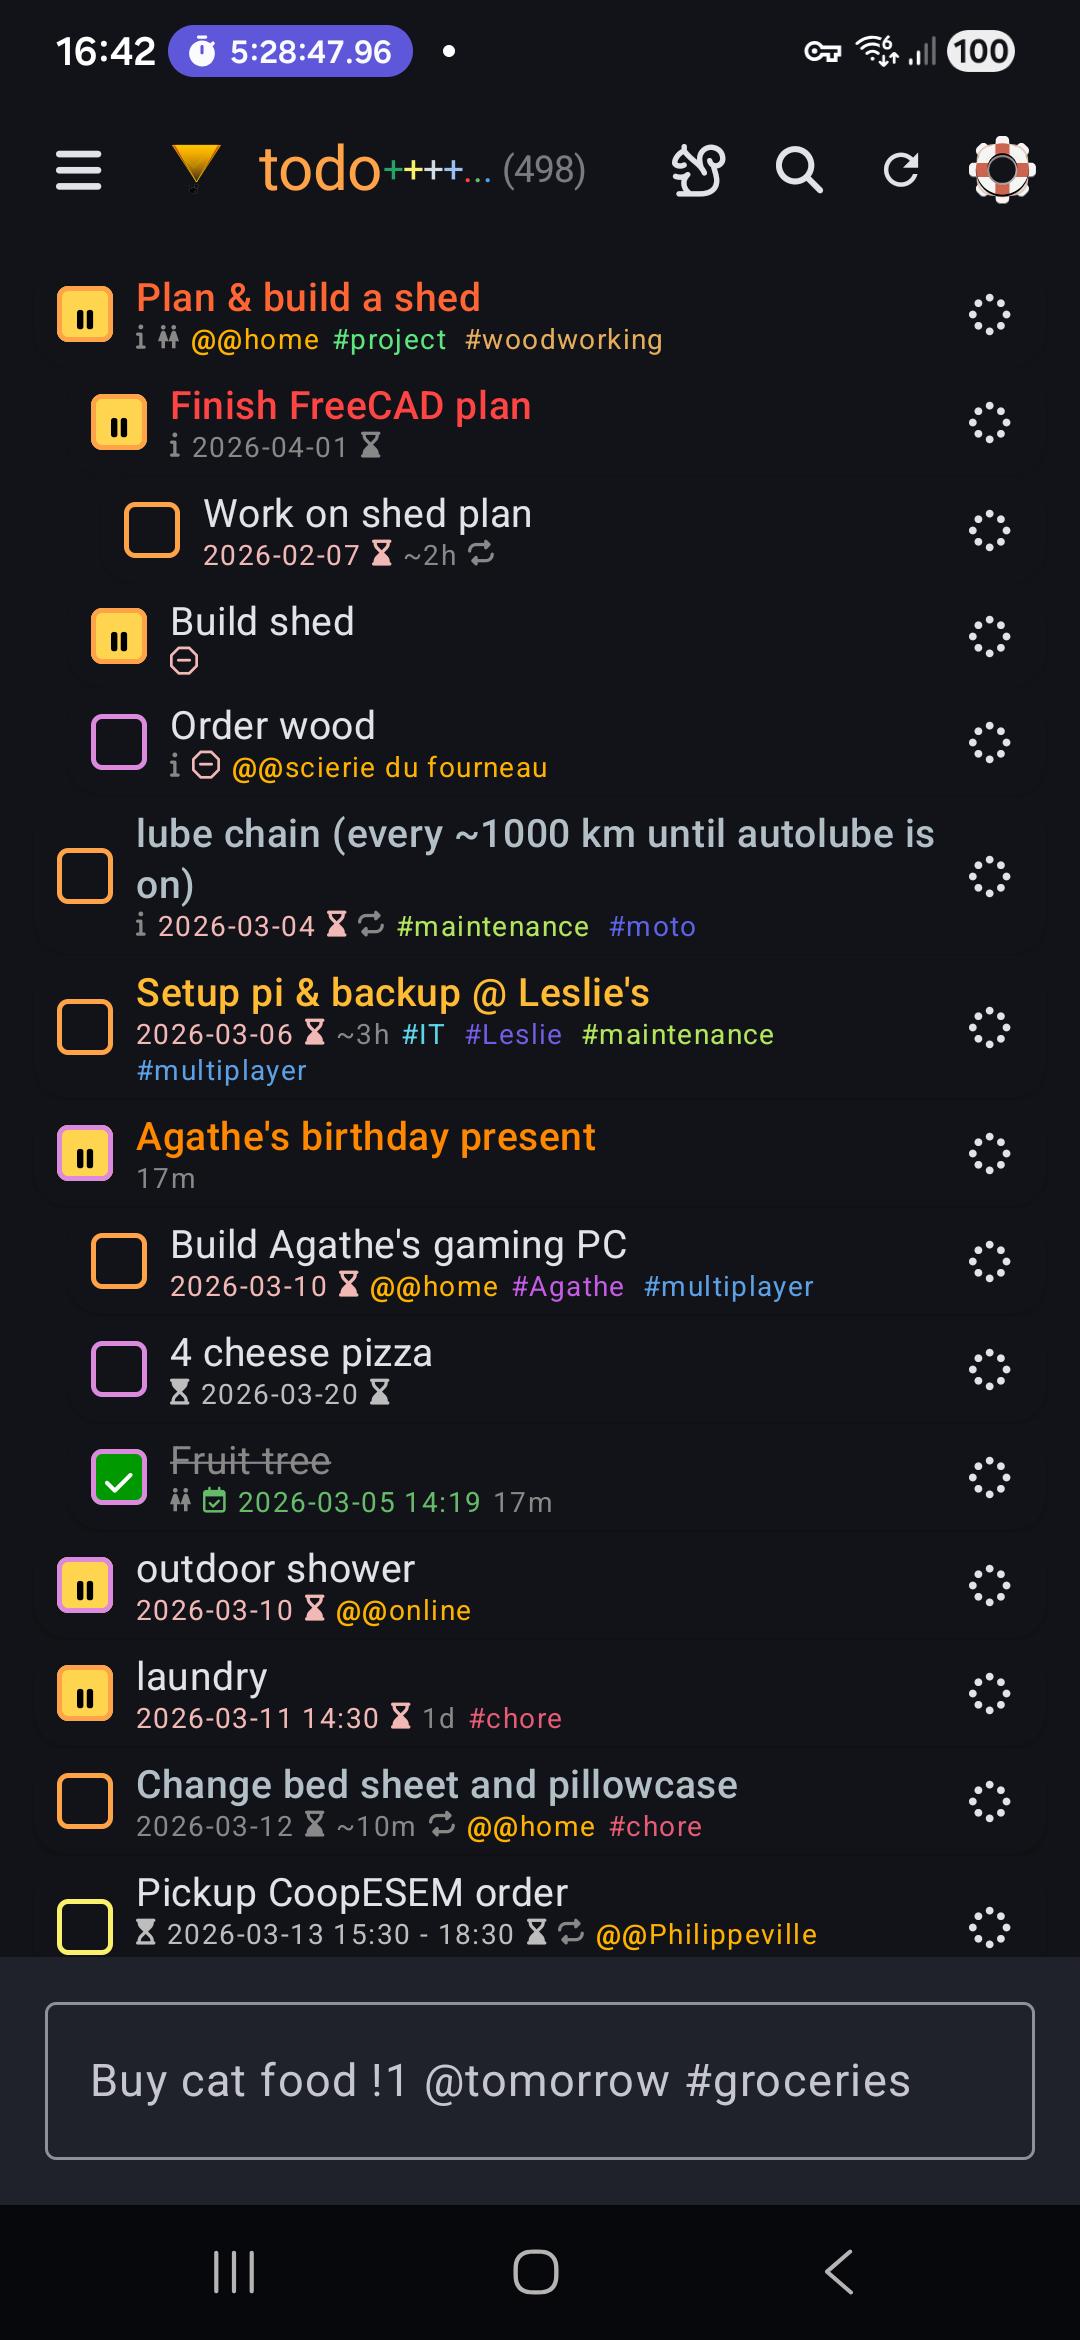
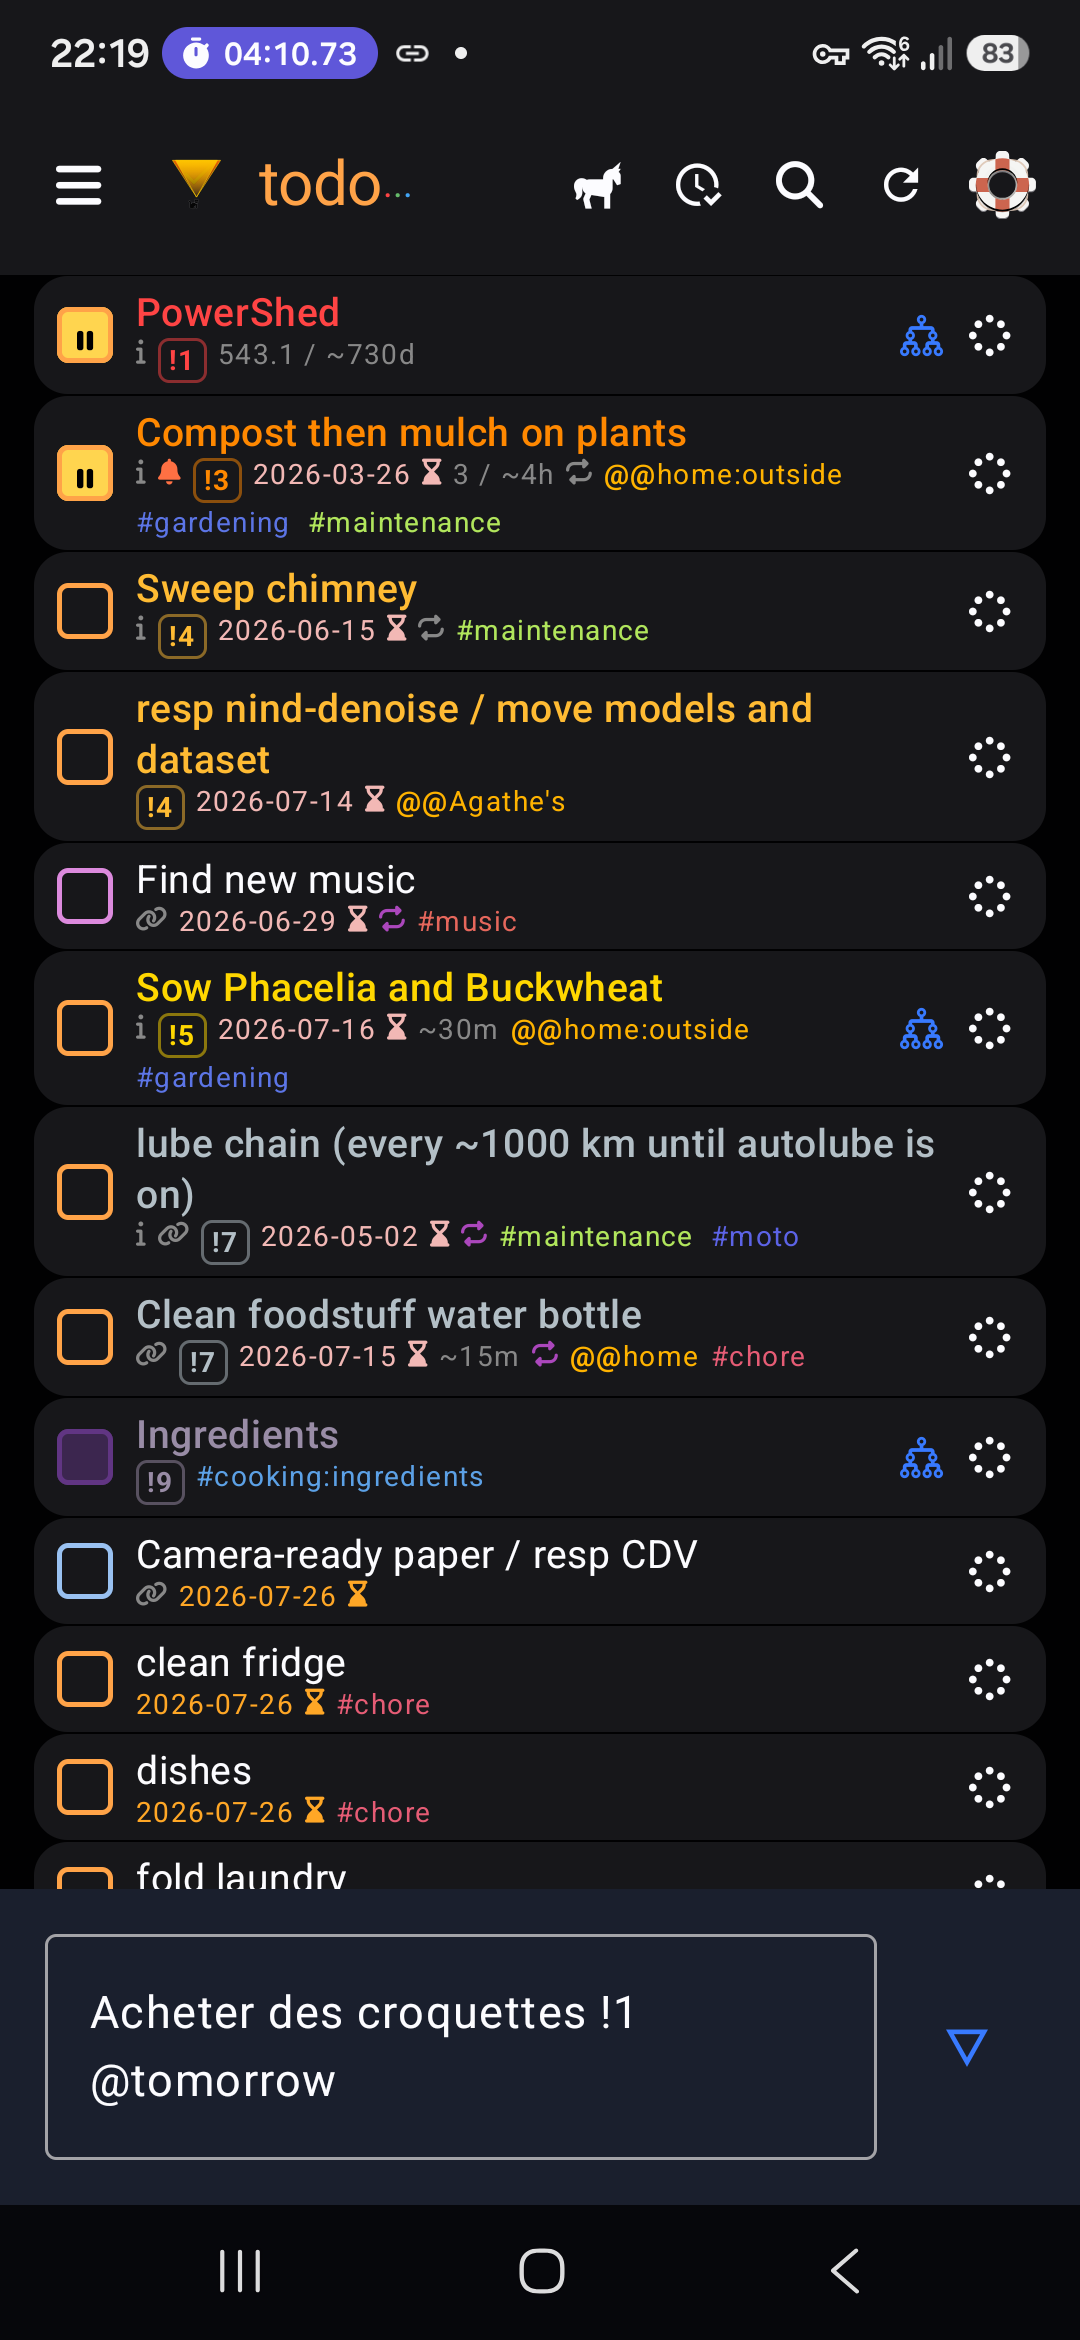
fix: add pre-installed python packages to ubuntu-builder Docker image and update remaining codeberg.org links to git.disroot.org, update GUI and Android screenshots

diff --git a/LICENSES/RUST_DEPENDENCIES.html b/LICENSES/RUST_DEPENDENCIES.html
@@ -41,7 +41,7 @@
             <h1>Third Party Licenses</h1>
             <p>This page lists the licenses of the projects used in cargo-about.</p>
         </div>
-    
+
         <h2>Overview of licenses:</h2>
         <ul class="licenses-overview">
             <li><a href="#MIT">MIT License</a> (299)</li>
@@ -1026,7 +1026,7 @@ TO, PROCUREMENT OF SUBSTITUTE GOODS OR SERVICES; LOSS OF USE, DATA, OR
 PROFITS; OR BUSINESS INTERRUPTION) HOWEVER CAUSED AND ON ANY THEORY OF
 LIABILITY, WHETHER IN CONTRACT, STRICT LIABILITY, OR TORT (INCLUDING
 NEGLIGENCE OR OTHERWISE) ARISING IN ANY WAY OUT OF THE USE OF THIS
-SOFTWARE, EVEN IF ADVISED OF THE POSSIBILITY OF SUCH DAMAGE. 
+SOFTWARE, EVEN IF ADVISED OF THE POSSIBILITY OF SUCH DAMAGE.
 </pre>
             </li>
             <li class="license">
@@ -1141,7 +1141,7 @@ insights.
                 <h3 id="GPL-3.0">GNU General Public License v3.0 only</h3>
                 <h4>Used by:</h4>
                 <ul class="license-used-by">
-                    <li><a href=" https://codeberg.org/trougnouf/cfait ">cfait 0.4.5</a></li>
+                    <li><a href=" https://git.disroot.org/trougnouf/cfait ">cfait 0.4.5</a></li>
                 </ul>
                 <pre class="license-text">GNU GENERAL PUBLIC LICENSE
 Version 3, 29 June 2007
@@ -5453,7 +5453,7 @@ THE SOFTWARE.
     means any form of the work other than Source Code Form.
 
 1.7. &quot;Larger Work&quot;
-    means a work that combines Covered Software with other material, in 
+    means a work that combines Covered Software with other material, in
     a separate file or files, that is not Covered Software.
 
 1.8. &quot;License&quot;
@@ -5834,7 +5834,7 @@ Exhibit B - &quot;Incompatible With Secondary Licenses&quot; Notice
     means any form of the work other than Source Code Form.
 
 1.7. &quot;Larger Work&quot;
-    means a work that combines Covered Software with other material, in 
+    means a work that combines Covered Software with other material, in
     a separate file or files, that is not Covered Software.
 
 1.8. &quot;License&quot;
@@ -6424,4 +6424,3 @@ the following restrictions:
 </body>
 
 </html>
-

diff --git a/android/app/src/main/java/com/trougnouf/cfait/ui/HelpScreen.kt b/android/app/src/main/java/com/trougnouf/cfait/ui/HelpScreen.kt
@@ -203,9 +203,9 @@ fun AboutTabContent(api: CfaitMobile) {
                 Text(stringResource(R.string.about_version, versionInfo.version, versionInfo.commit) + " • GPL3", color = Color.Gray)
                 Text("Trougnouf (Benoit Brummer)", color = Color.Gray)
                 Text(
-                    "https://codeberg.org/trougnouf/cfait",
+                    "https://git.disroot.org/trougnouf/cfait",
                     color = MaterialTheme.colorScheme.primary,
-                    modifier = Modifier.clickable { openUrl("https://codeberg.org/trougnouf/cfait") })
+                    modifier = Modifier.clickable { openUrl("https://git.disroot.org/trougnouf/cfait") })
             }
         }
     }

diff --git a/README.md b/README.md
@@ -5,7 +5,7 @@
 </p>
 
 <p align="center">
-  <a href="https://codeberg.org/trougnouf/cfait/releases"><img src="https://codeberg.org/trougnouf/cfait/badges/release.svg" alt="Releases"></a>
+  <a href="https://git.disroot.org/trougnouf/cfait/releases"><img src="https://git.disroot.org/trougnouf/cfait/badges/release.svg" alt="Releases"></a>
   <a href="https://f-droid.org/packages/com.trougnouf.cfait/"><img src="https://img.shields.io/f-droid/v/com.trougnouf.cfait.svg" alt="F-Droid"></a>
   <!--<a href="https://git.disroot.org/trougnouf/cfait/actions"><img src="https://git.disroot.org/trougnouf/cfait/badges/workflows/test_roll.yml/badge.svg" alt="Test status"></a>-->
   <a href="https://git.disroot.org/trougnouf/cfait/src/branch/main/LICENSE"><img src="https://img.shields.io/badge/license-GPLv3-gray.svg" alt="License"></a>
@@ -31,7 +31,7 @@ If you *do* want to sync your tasks across devices, Cfait connects seamlessly to
 
 | Desktop (GUI & TUI) | Mobile (Android) |
 | :---: | :---: |
-| ![Cfait GUI Screenshot](https://commons.wikimedia.org/wiki/Special:FilePath/Cfait_task_manager_v0.5.2_screenshot_(GUI).png)<br>The Graphical Interface in v0.5.2 <small>([history](https://commons.wikimedia.org/wiki/Category:Screenshots_of_Cfait_(GUI)))</small><br><br>![Cfait TUI Screenshot](https://commons.wikimedia.org/wiki/Special:FilePath/Cfait_task_manager_v0.5.0_screenshot_(TUI).png)<br>The Terminal Interface in v0.5.0 <small>([history](https://commons.wikimedia.org/wiki/Category:Screenshots_of_Cfait_(TUI)))</small> | ![Cfait Android Screenshot](https://commons.wikimedia.org/wiki/Special:FilePath/Cfait_task_manager_v0.5.2_screenshot_(Android).png)<br>The Android client in v0.5.2 <small>([history](https://commons.wikimedia.org/wiki/Category:Screenshots_of_Cfait_(Android)))</small> |
+| ![Cfait GUI Screenshot](https://commons.wikimedia.org/wiki/Special:FilePath/Cfait_task_manager_v1.1.0_screenshot_(GUI).png)<br>The Graphical Interface in v0.5.2 <small>([history](https://commons.wikimedia.org/wiki/Category:Screenshots_of_Cfait_(GUI)))</small><br><br>![Cfait TUI Screenshot](https://commons.wikimedia.org/wiki/Special:FilePath/Cfait_task_manager_v0.5.0_screenshot_(TUI).png)<br>The Terminal Interface in v0.5.0 <small>([history](https://commons.wikimedia.org/wiki/Category:Screenshots_of_Cfait_(TUI)))</small> | ![Cfait Android Screenshot](https://commons.wikimedia.org/wiki/Special:FilePath/Cfait_task_manager_v1.1.0_screenshot_(Android).png)<br>The Android client in v0.5.2 <small>([history](https://commons.wikimedia.org/wiki/Category:Screenshots_of_Cfait_(Android)))</small> |
 
 ### 📖 Documentation & usage
 
@@ -47,10 +47,10 @@ We offer both **Stable** and **Rolling** releases. We highly encourage users to 
 
 *(Note: On our releases page, the "Rolling" tag stays pinned at the very top. To find the latest stable version, scroll past it and click "Downloads" on the numbered release).*
 
-* **🐧 Linux:** Available on [Flathub](https://flathub.org/apps/com.trougnouf.Cfait), the AUR (`yay -S cfait`), or via `.deb` / `.tar.gz` on our [Releases page](https://codeberg.org/trougnouf/cfait/releases).
+* **🐧 Linux:** Available on [Flathub](https://flathub.org/apps/com.trougnouf.Cfait), the AUR (`yay -S cfait`), or via `.deb` / `.tar.gz` on our [Releases page](https://git.disroot.org/trougnouf/cfait/releases).
 * **👺 FreeBSD:** Available in [Ports/Packages](https://www.freshports.org/deskutils/cfait/), install with `pkg install cfait`
 * **📱 Android:** Get it on [F-Droid](https://f-droid.org/packages/com.trougnouf.cfait/), [Google Play](https://play.google.com/store/apps/details?id=com.trougnouf.cfait), or download the APK.
-* **🪟 Windows:** Check the [Releases page](https://codeberg.org/trougnouf/cfait/releases) for binaries.
+* **🪟 Windows:** Check the [Releases page](https://git.disroot.org/trougnouf/cfait/releases) for binaries.
 * **🍎 MacOS:** Download pre-compiled binaries provided by Martin Stut on https://static.stut.de/cfait-macos/
 * **⚙ Rust (Cargo):** `cargo install cfait` (TUI) or `cargo install cfait --features gui --bin cfait-gui` (GUI).
 

diff --git a/CONTRIBUTING.md b/CONTRIBUTING.md
@@ -63,7 +63,7 @@ cargo run --features mobile --bin uniffi-bindgen generate \
 
 ### ✅ Submitting a Pull Request
 
-**We strongly prefer Pull Requests on Codeberg:** [https://codeberg.org/trougnouf/cfait](https://codeberg.org/trougnouf/cfait)  
+**We strongly prefer Pull Requests on Codeberg:** [https://git.disroot.org/trougnouf/cfait](https://git.disroot.org/trougnouf/cfait)  
 *(Our CI pipeline resides on Codeberg. We accept PRs on GitHub, but it requires us to manually port them over).*
 
 Before submitting, please ensure your changes meet the following criteria:
@@ -82,8 +82,7 @@ Before submitting, please ensure your changes meet the following criteria:
 ### 🌟 Other ways to contribute
 
 Not a Rust developer? We still need your help!
-*   **Testing:** We offer "Rolling Releases" (Flatpak, APK, Windows `.exe`). Download the rolling release from the [Releases page](https://codeberg.org/trougnouf/cfait/releases) (or compile it yourself) to test the bleeding edge and report bugs.
+*   **Testing:** We offer "Rolling Releases" (Flatpak, APK, Windows `.exe`). Download the rolling release from the [Releases page](https://git.disroot.org/trougnouf/cfait/releases) (or compile it yourself) to test the bleeding edge and report bugs.
 *   **Localization:** Help translate the app on [Codeberg Translate](https://translate.codeberg.org/projects/cfait).
 *   **Documentation:** The documentation can always be improved. If something is missing and/or confusing then explain it better.
 *   **Ideas, design & UI:** Suggestions for improvements are always welcome in the issue tracker.
-
